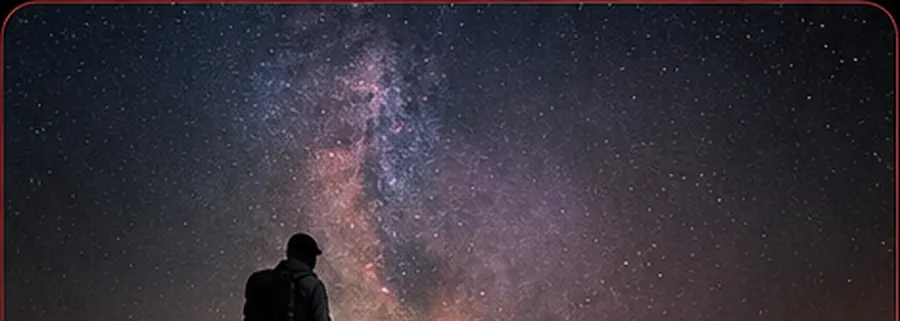
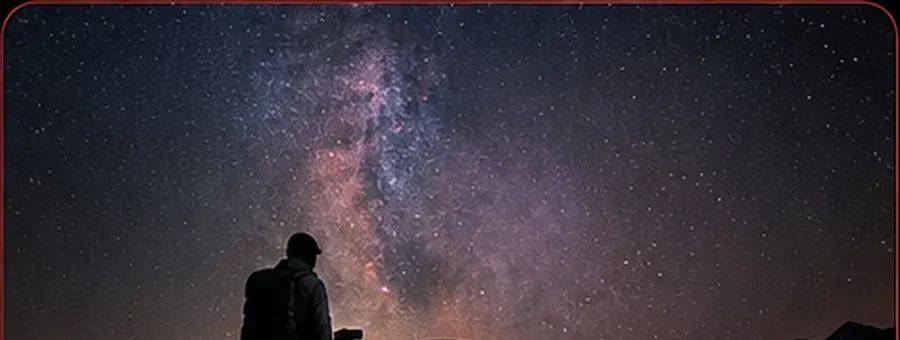
Fix tile background image cropping
The visible crop was happening in two places, not just the browser's
object-fit: cover: scripts/process_tile_images.py already pre-crops each
square mockup to a wide strip before it ships as WebP, using one fixed
CROP_HEIGHT for all four images regardless of where each badge actually
sits. That discarded DSO Search's galaxy core and Astro Planner's
photographer entirely, since both sat just below the cutoff.

- Measure each mockup's actual badge-top and crop per-image right up to
  it (with a small safety margin), reclaiming up to ~35px of photo that
  was being thrown away for no reason. Regenerated the four WebP assets.
- Because the pre-cropped WebP's aspect ratio is already close to the
  tile box's, object-fit: cover only ever overflows horizontally (the
  vertical axis fits exactly at any viewport width, mobile included) --
  so object-position is tuned on the horizontal axis per tile, using
  each photo's measured subject center, instead of the vertical axis
  which has no visible effect on this asset pipeline.

Verified by rendering the app and comparing tiles at desktop and mobile
widths against the source mockups.

diff --git a/src/styles/components.css b/src/styles/components.css
@@ -193,6 +193,28 @@
   display: block;
 }
 
+/* These images ship pre-cropped to a wide strip (see
+   scripts/process_tile_images.py) that's already close to the tile box's
+   aspect ratio, so object-fit: cover only ever overflows horizontally --
+   the vertical axis fits exactly at any viewport width. Per-tile horizontal
+   offsets below keep each photo's subject centered in that crop instead of
+   the default 50% cutting into it on narrow/mobile widths. */
+.pt-tile-img--aviation {
+  object-position: 53% center;
+}
+
+.pt-tile-img--astro {
+  object-position: 40% center;
+}
+
+.pt-tile-img--dso {
+  object-position: 44% center;
+}
+
+.pt-tile-img--planner {
+  object-position: 33% center;
+}
+
 .pt-tile-bg::after {
   content: "";
   position: absolute;

diff --git a/src/views/home.js b/src/views/home.js
@@ -7,7 +7,7 @@ import { openPlaceholder } from "../components/placeholderModal.js";
 
 function tileMarkup(tool) {
   const bgImg = tool.backgroundImage
-    ? `<img class="pt-tile-img" src="${import.meta.env.BASE_URL}${tool.backgroundImage}" alt="" loading="lazy" data-tile-img />`
+    ? `<img class="pt-tile-img pt-tile-img--${tool.bg}" src="${import.meta.env.BASE_URL}${tool.backgroundImage}" alt="" loading="lazy" data-tile-img />`
     : "";
   // No backgroundImage configured -> render straight into fallback mode.
   const fallbackClass = tool.backgroundImage ? "" : ` pt-tile-bg--fallback pt-tile-bg--${tool.bg}`;

diff --git a/scripts/process_tile_images.py b/scripts/process_tile_images.py
@@ -18,23 +18,25 @@ from PIL import Image
 ROOT = os.path.join(os.path.dirname(__file__), "..")
 OUT_DIR = os.path.join(ROOT, "public", "assets", "tiles")
 
-# All source mockups share the same 1404x1407 canvas with the badge starting
-# at ~y=530 — crop at 500 to leave a clean margin above it on every image.
-CROP_HEIGHT = 500
+# All source mockups share the same 1404x1407 canvas, but the badge circle
+# doesn't start at exactly the same y on every one (it's composited over each
+# photo individually) -- measured badge-top per image, each with a ~5px safety
+# margin above it, so every crop keeps as much of the photo as possible
+# without pulling in any of the baked-in icon/title/description block.
 OUT_WIDTH = 900
 QUALITY = 78
 
 SOURCES = {
-    "spotters_log_ui.jpg": "spotters-log.webp",
-    "astroweather_ui.jpg": "astro-weather.webp",
-    "dso_search_ui.jpg": "dso-search.webp",
-    "astro_planner_ui.jpg": "astro-planner.webp",
+    "spotters_log_ui.jpg": ("spotters-log.webp", 518),
+    "astroweather_ui.jpg": ("astro-weather.webp", 517),
+    "dso_search_ui.jpg": ("dso-search.webp", 535),
+    "astro_planner_ui.jpg": ("astro-planner.webp", 531),
 }
 
 
 def main():
     os.makedirs(OUT_DIR, exist_ok=True)
-    for src_name, out_name in SOURCES.items():
+    for src_name, (out_name, crop_height) in SOURCES.items():
         src_path = os.path.join(ROOT, src_name)
         if not os.path.exists(src_path):
             print(f"skip (not found): {src_name}")
@@ -42,7 +44,7 @@ def main():
 
         img = Image.open(src_path).convert("RGB")
         w, h = img.size
-        cropped = img.crop((0, 0, w, min(CROP_HEIGHT, h)))
+        cropped = img.crop((0, 0, w, min(crop_height, h)))
 
         out_h = round(cropped.height * (OUT_WIDTH / cropped.width))
         resized = cropped.resize((OUT_WIDTH, out_h), Image.LANCZOS)
